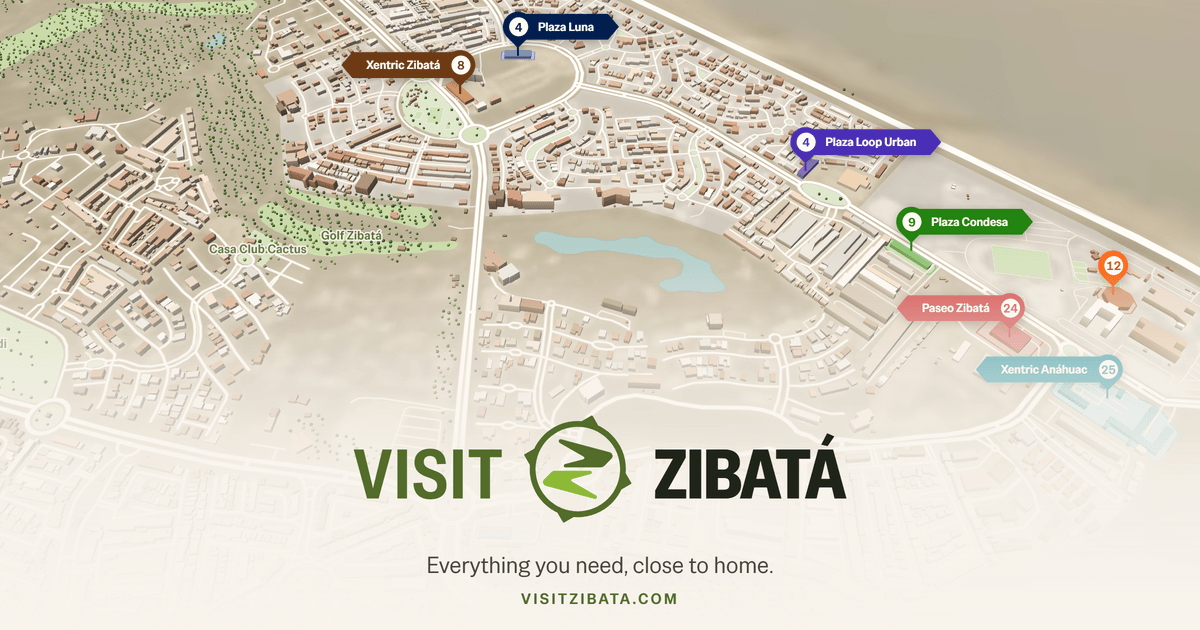
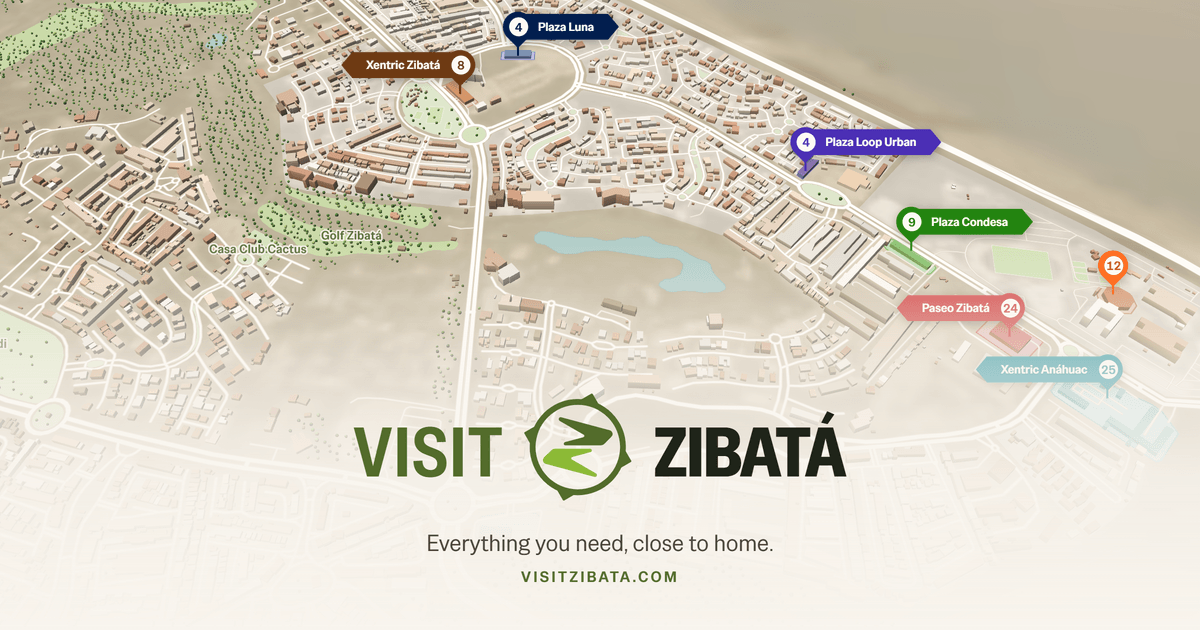
La tarjeta sube el texto de apoyo
El bloque de marca y texto pasa de 20 a 42 px del borde inferior. El hueco entre el lockup y la descripcion no cambia: sube la pieza entera, no solo la linea.

Changed region(s): [[0.2775, 0.6333, 0.7092, 0.9651]]

diff --git a/scripts/images/generate-og-image.ts b/scripts/images/generate-og-image.ts
@@ -142,7 +142,7 @@ try {
       header, aside, footer, fieldset, .maplibregl-ctrl-bottom-left { display: none !important; }
       #og-card { position: fixed; inset: 0; z-index: 100; pointer-events: none;
         background: linear-gradient(to bottom, rgb(248 244 237 / 0) 38%, rgb(248 244 237 / 0.62) 58%, rgb(248 244 237 / 0.92) 76%, rgb(248 244 237 / 1) 100%); }
-      #og-card .pie { position: absolute; left: 50%; bottom: 20px; translate: -50% 0; width: 640px; text-align: center; color: #1f2419; font-family: 'Special Gothic', sans-serif; }
+      #og-card .pie { position: absolute; left: 50%; bottom: 42px; translate: -50% 0; width: 640px; text-align: center; color: #1f2419; font-family: 'Special Gothic', sans-serif; }
       #og-card .lockup { display: block; width: 540px; height: auto; margin: 0 auto 8px; font-family: 'Special Gothic', sans-serif; font-stretch: 88%; overflow: visible; }
       #og-card .descripcion { margin: 0 auto; max-width: 500px; font-size: 23px; font-weight: 400; line-height: 1.28; text-wrap: balance; color: #454a3b; }
       #og-card .sitio { margin: 8px 0 0; font-size: 15px; font-weight: 600; letter-spacing: .16em; text-transform: uppercase; color: #536c2a; }
